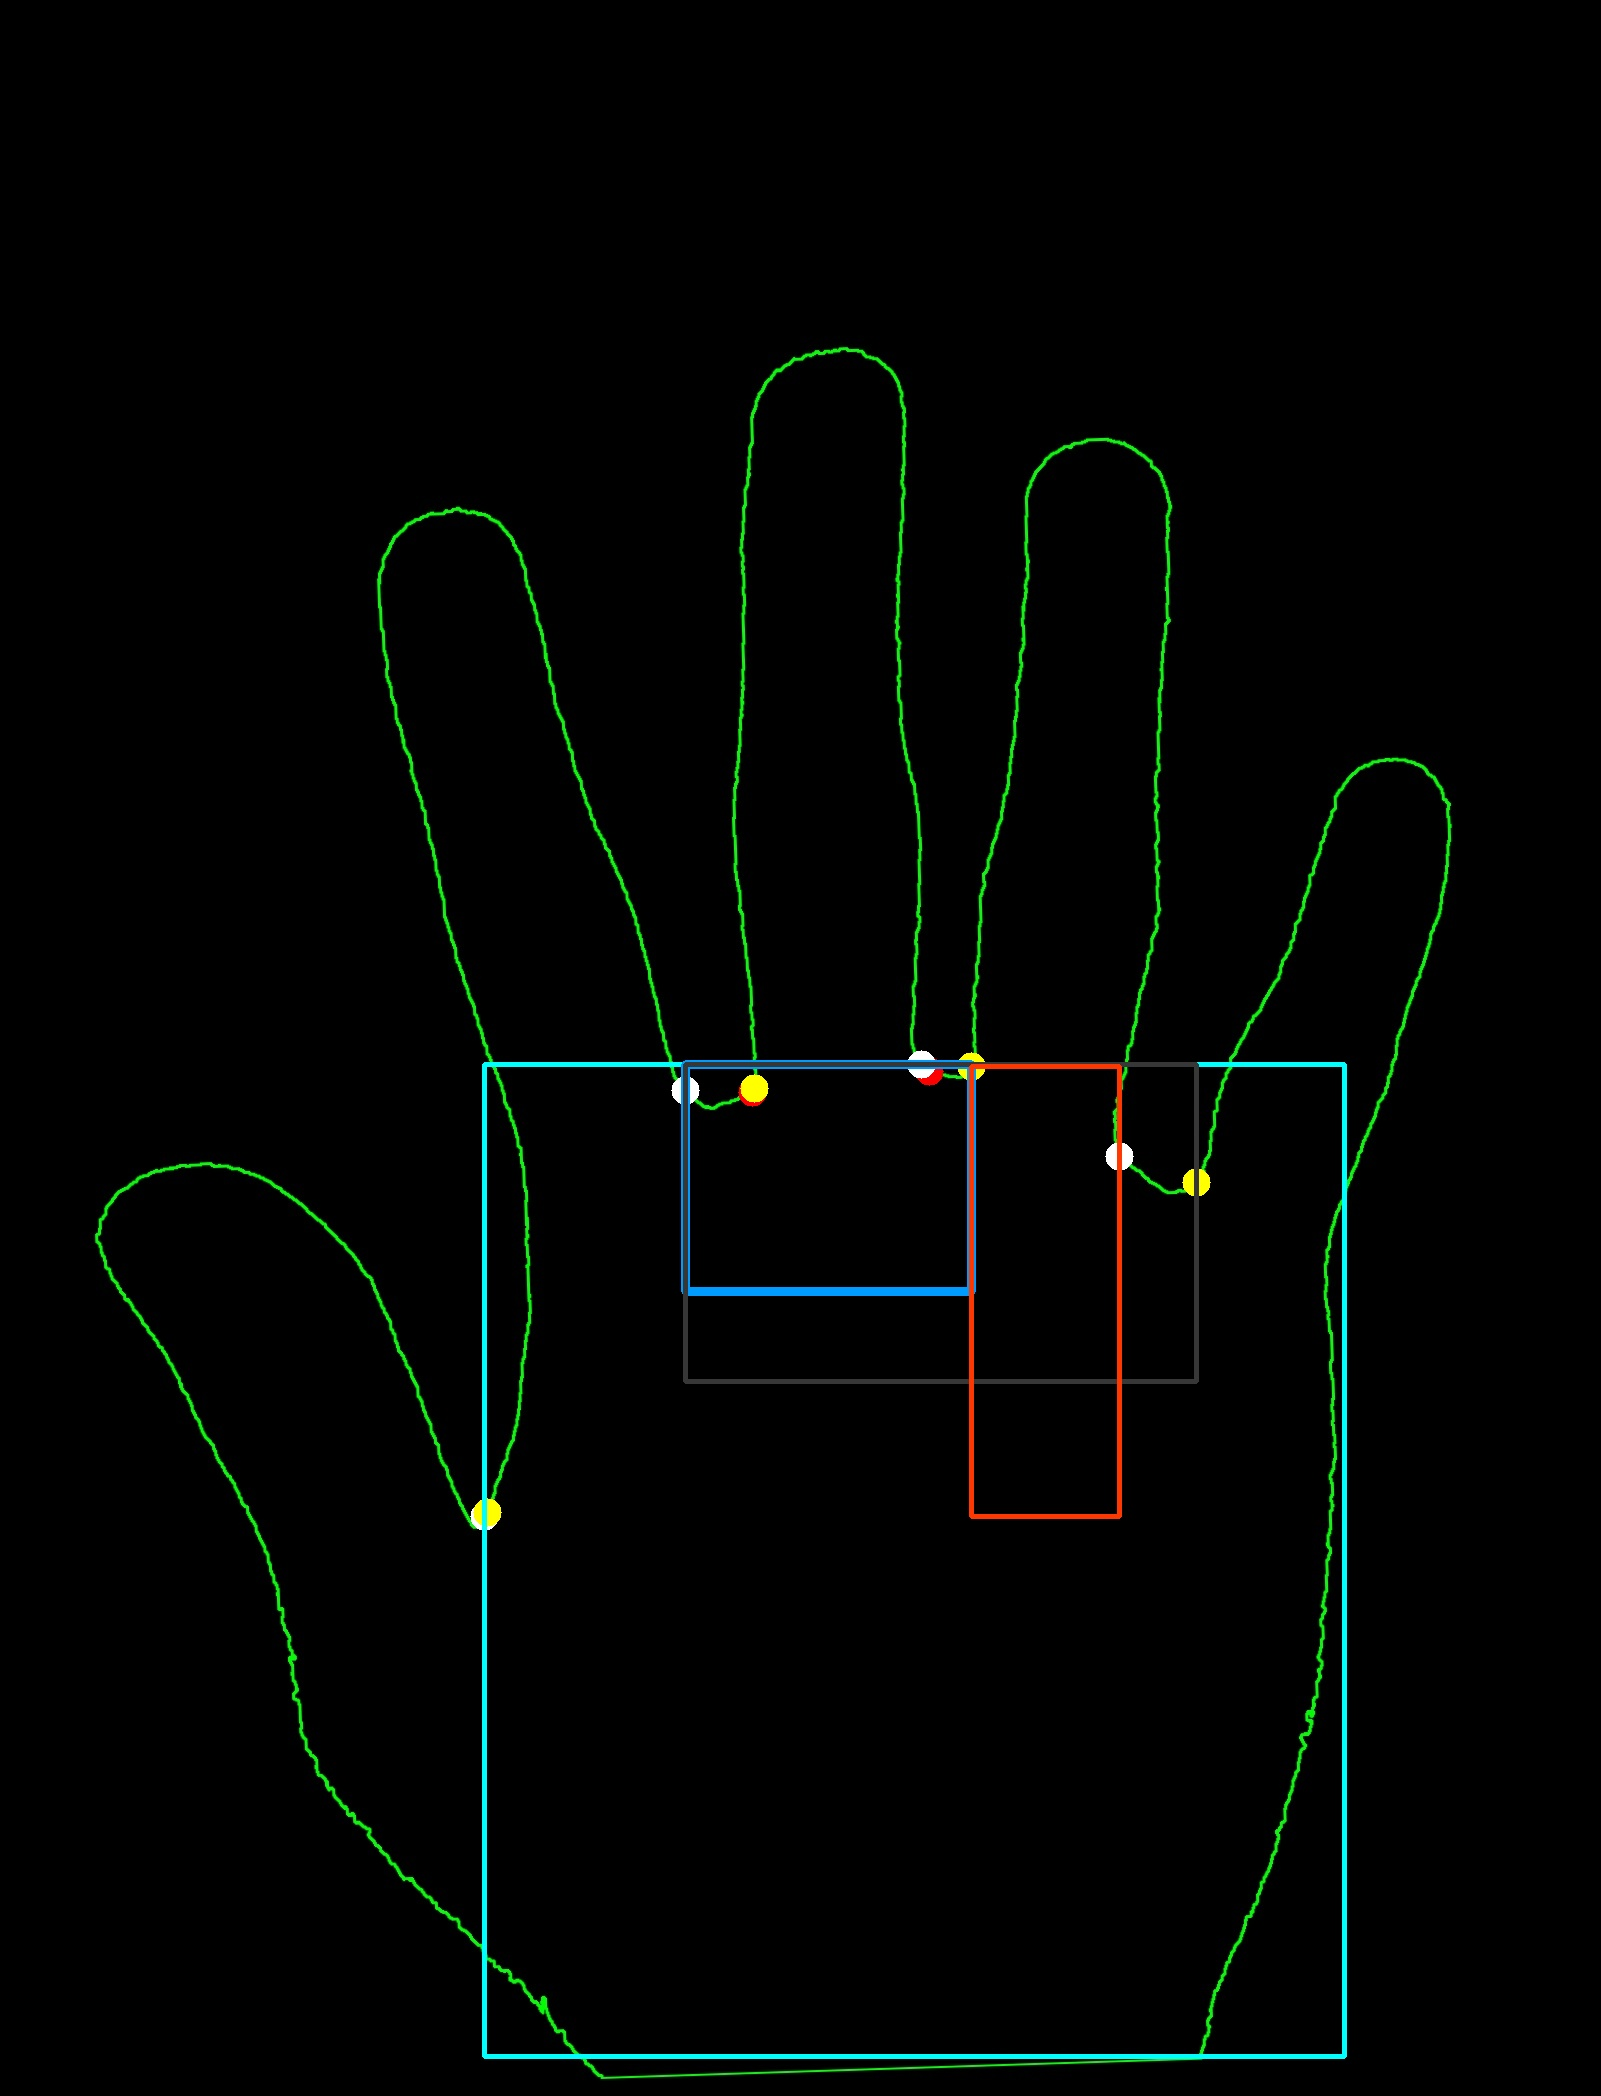
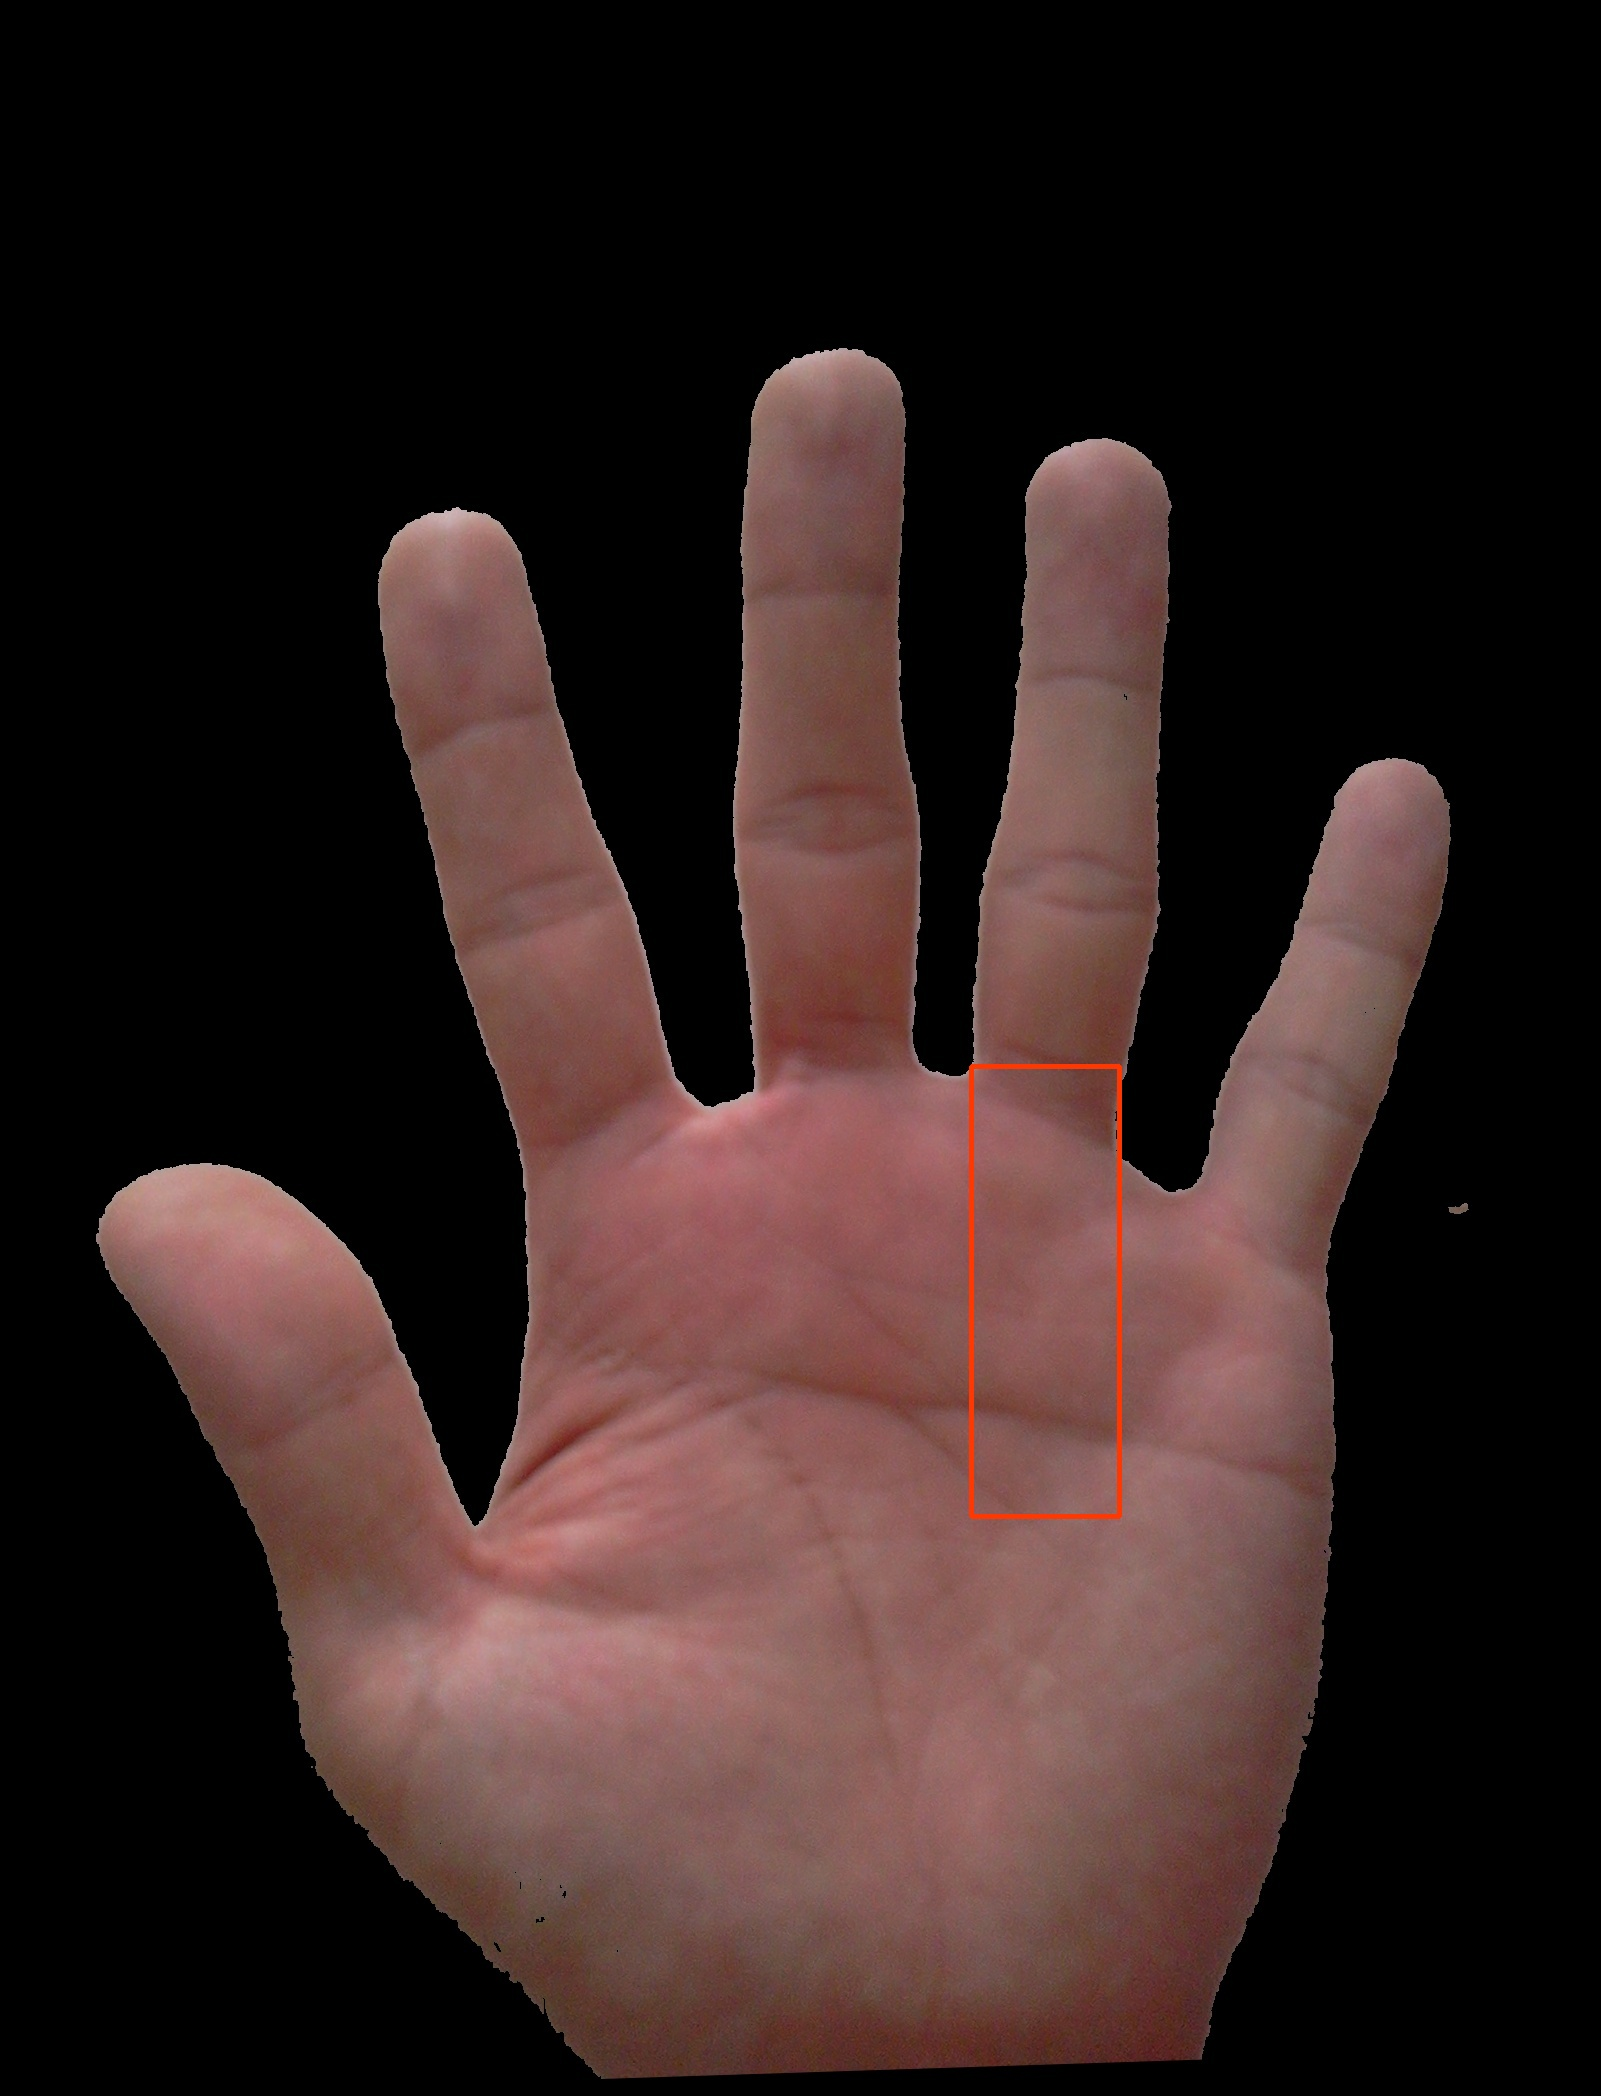
ok

diff --git a/recognize/roi/anchor/xxx.py b/recognize/roi/anchor/xxx.py
@@ -13,27 +13,40 @@ def calK(p0,p1):
     print("asdfasdfsdfasdfasdfas")
     return k
 def roi_main(img,points):
+    img = img.copy()
     top_left=(points[0][0],points[4][1])
     bottom_right = (points[7][0]+(points[6][0]-points[5][0]), int(points[0][1]-(points[5][1]-points[0][1])*1.2))
     cv2.rectangle(img,top_left, bottom_right,(255,255,0),3)
     cv2.imwrite("roi_main.jpg",img)
+    out = img[top_left[1]:bottom_right[1],top_left[0]:bottom_right[0],:]
+    cv2.imwrite("roi_main_out.jpg",out)
 def roi_10(img, p):
+    img = img.copy()
     top_left=(p[2][0],p[2*2+0][1])
     bottom_right = (p[2*2+1][0],int((p[0*2+0][1]+p[2*2+1][1])/2))
     cv2.rectangle(img,top_left, bottom_right,(255,155,0),8)
     cv2.imwrite("roi_10.jpg",img)
+    out = img[top_left[1]:bottom_right[1],top_left[0]:bottom_right[0],:]
+    cv2.imwrite("roi_10_out.jpg",out)
     
 def roi_9(img, p):
+    img = img.copy()
     top_left=(p[2][0],p[2*2+0][1])
     bottom_right = (p[3*2+1][0],int(p[0*2+0][1]+(-p[0*2+0][1]+p[2*2+1][1])*0.3))
     cv2.rectangle(img,top_left, bottom_right,(55,55,55),3)
     cv2.imwrite("roi_9.jpg",img)
+    out = img[top_left[1]:bottom_right[1],top_left[0]:bottom_right[0],:]
+    cv2.imwrite("roi_9_out.jpg",out)
 def roi_7(img, p):
+    img = img.copy()
     top_left=(p[2*2+1][0],p[2*2+1][1])
     bottom_right = (p[3*2+0][0],p[0*2+0][1])
     cv2.rectangle(img,top_left, bottom_right,(0,55,255),3)
     cv2.imwrite("roi_7.jpg",img)
+    out = img[top_left[1]:bottom_right[1],top_left[0]:bottom_right[0],:]
+    cv2.imwrite("roi_7_out.jpg",out)
 img = cv2.imread('contour.jpg')
+src = cv2.imread('cutout.jpg')
 img_gray = cv2.cvtColor(img,cv2.COLOR_BGR2GRAY)
 ret, thresh = cv2.threshold(img_gray, 127, 255,0)
 imt,contours,hierarchy = cv2.findContours(thresh,cv2.RETR_EXTERNAL,cv2.CHAIN_APPROX_SIMPLE)
@@ -63,8 +76,12 @@ for i in range(4):
     cv2.imwrite("{0}.jpg".format(i), img)
 points = sorted(points, key=lambda x:x[0])
 print(points)
-roi_main(img,points)
-roi_10(img,points)
-roi_9(img,points)
-roi_7(img,points)
+#roi_main(img,points)
+#roi_10(img,points)
+#roi_9(img,points)
+#roi_7(img,points)
+roi_main(src,points)
+roi_10(src,points)
+roi_9(src,points)
+roi_7(src,points)
 
